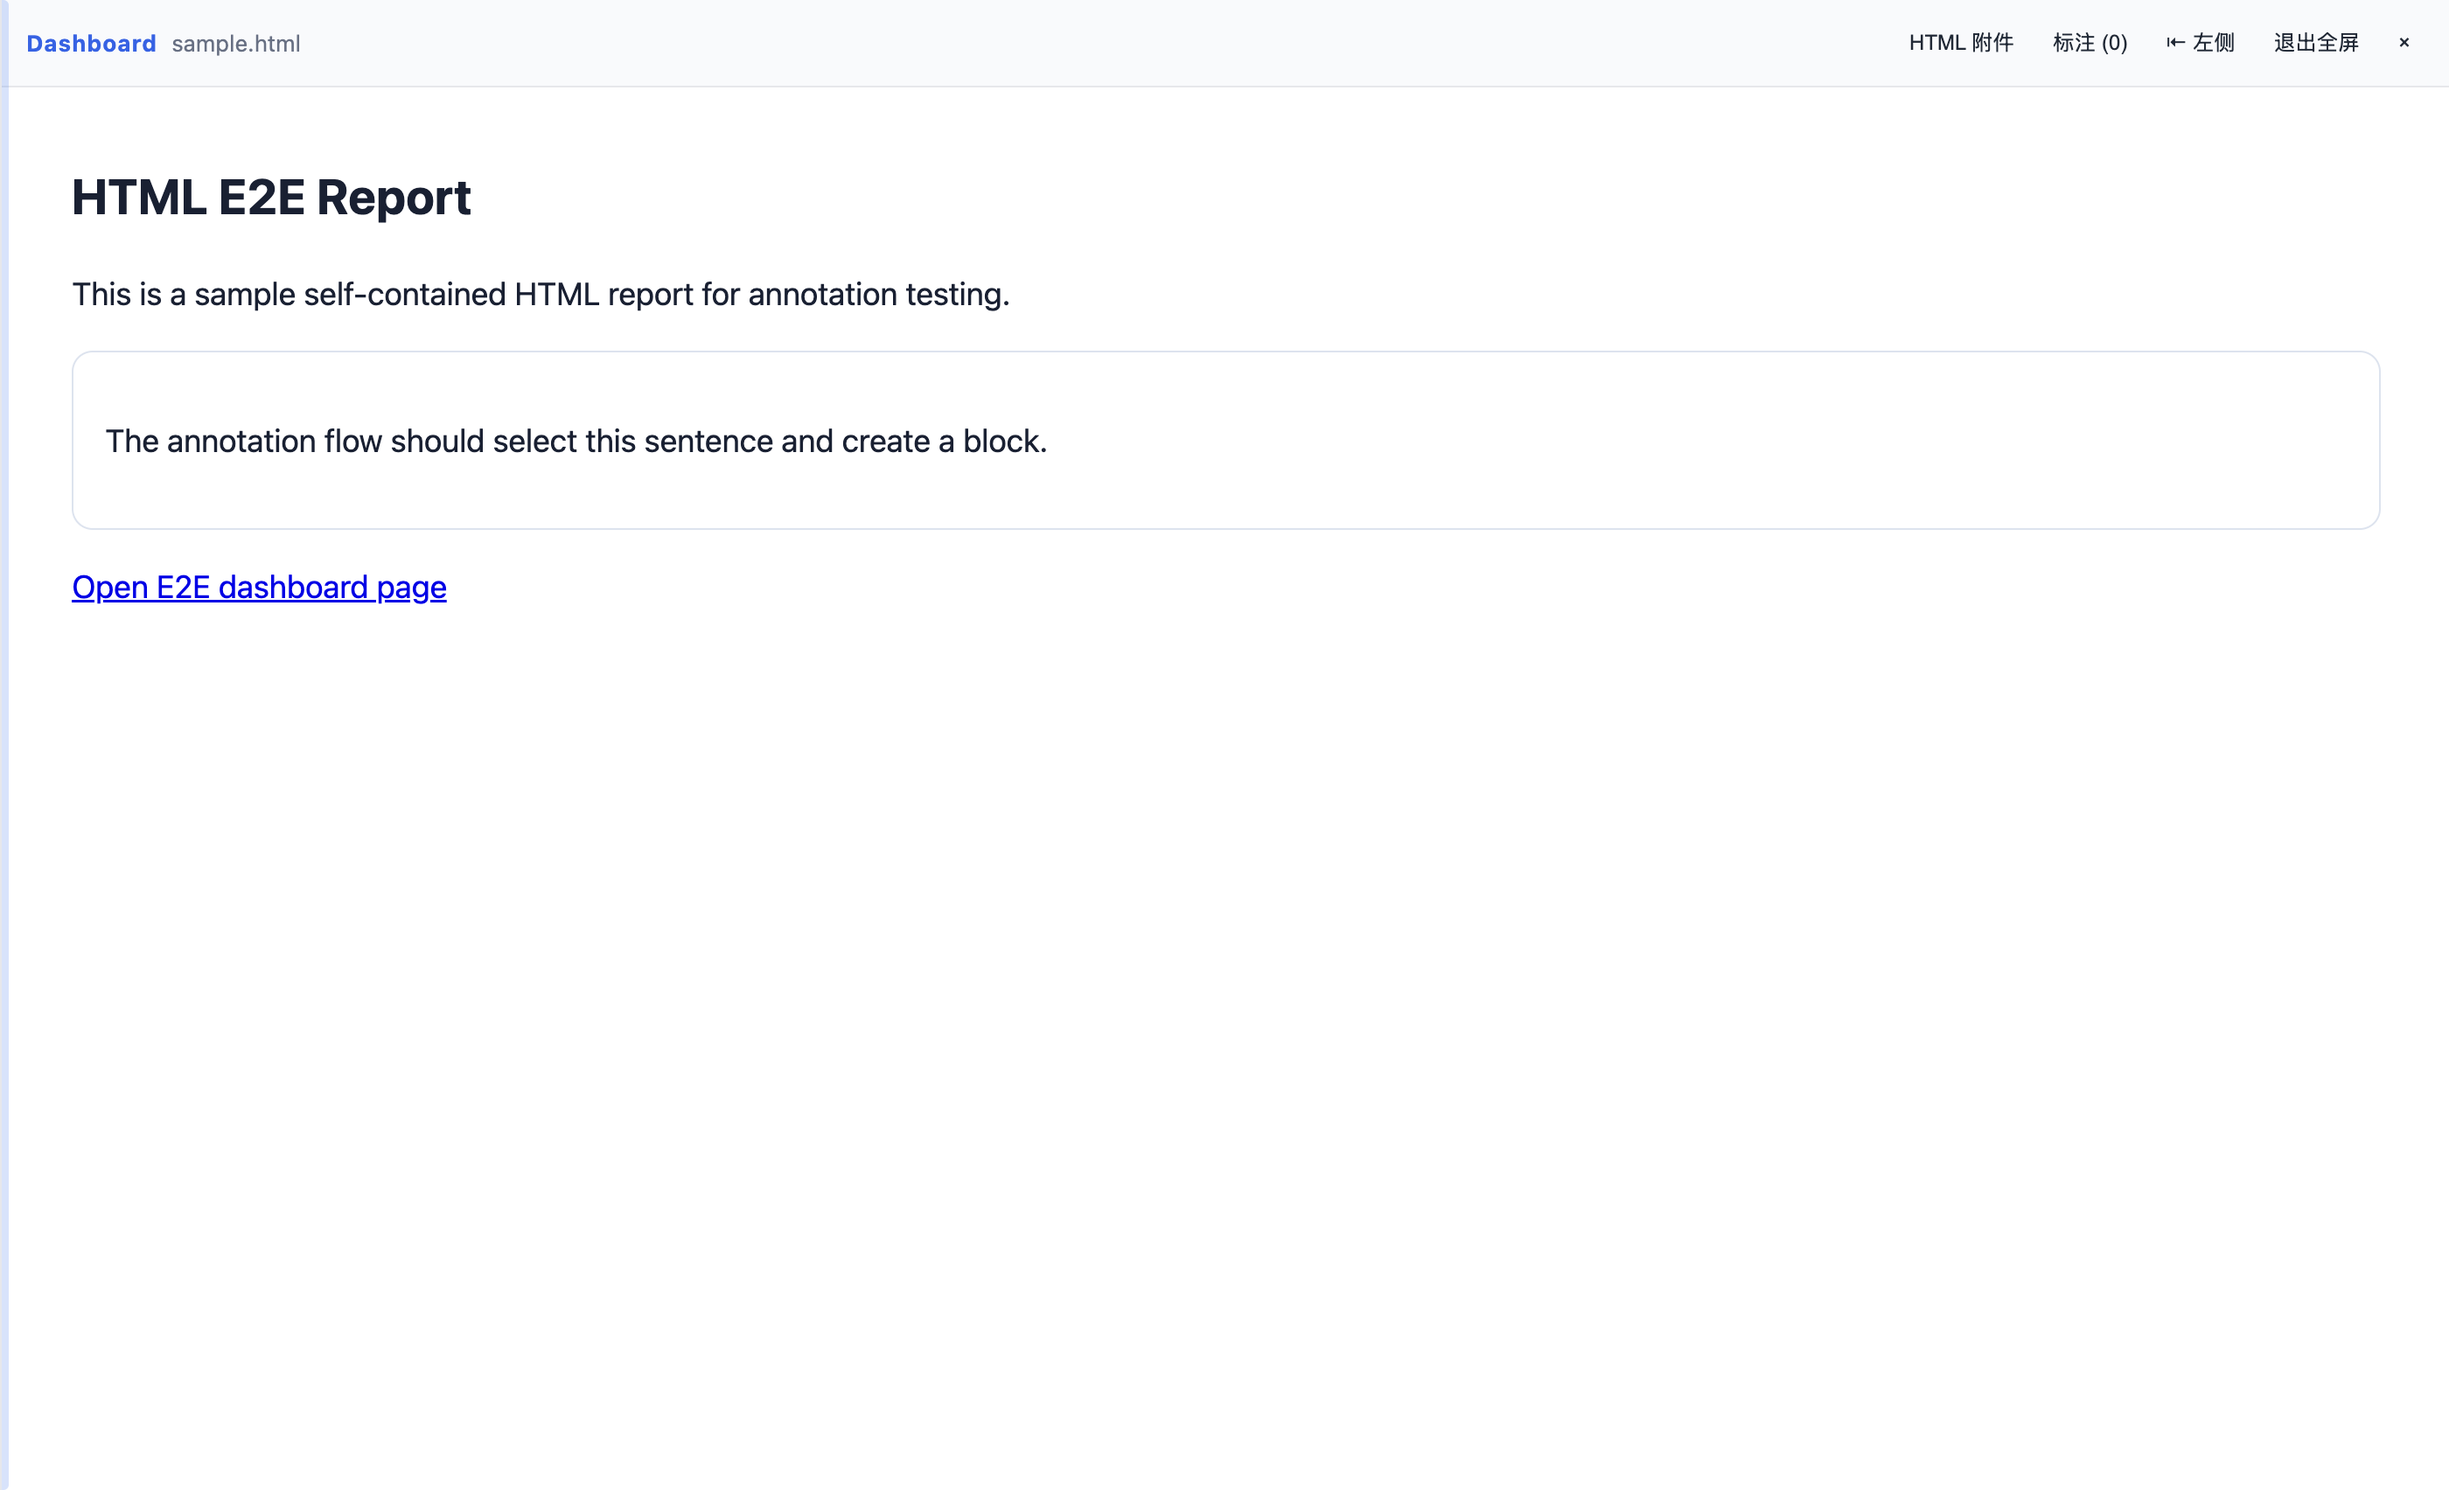
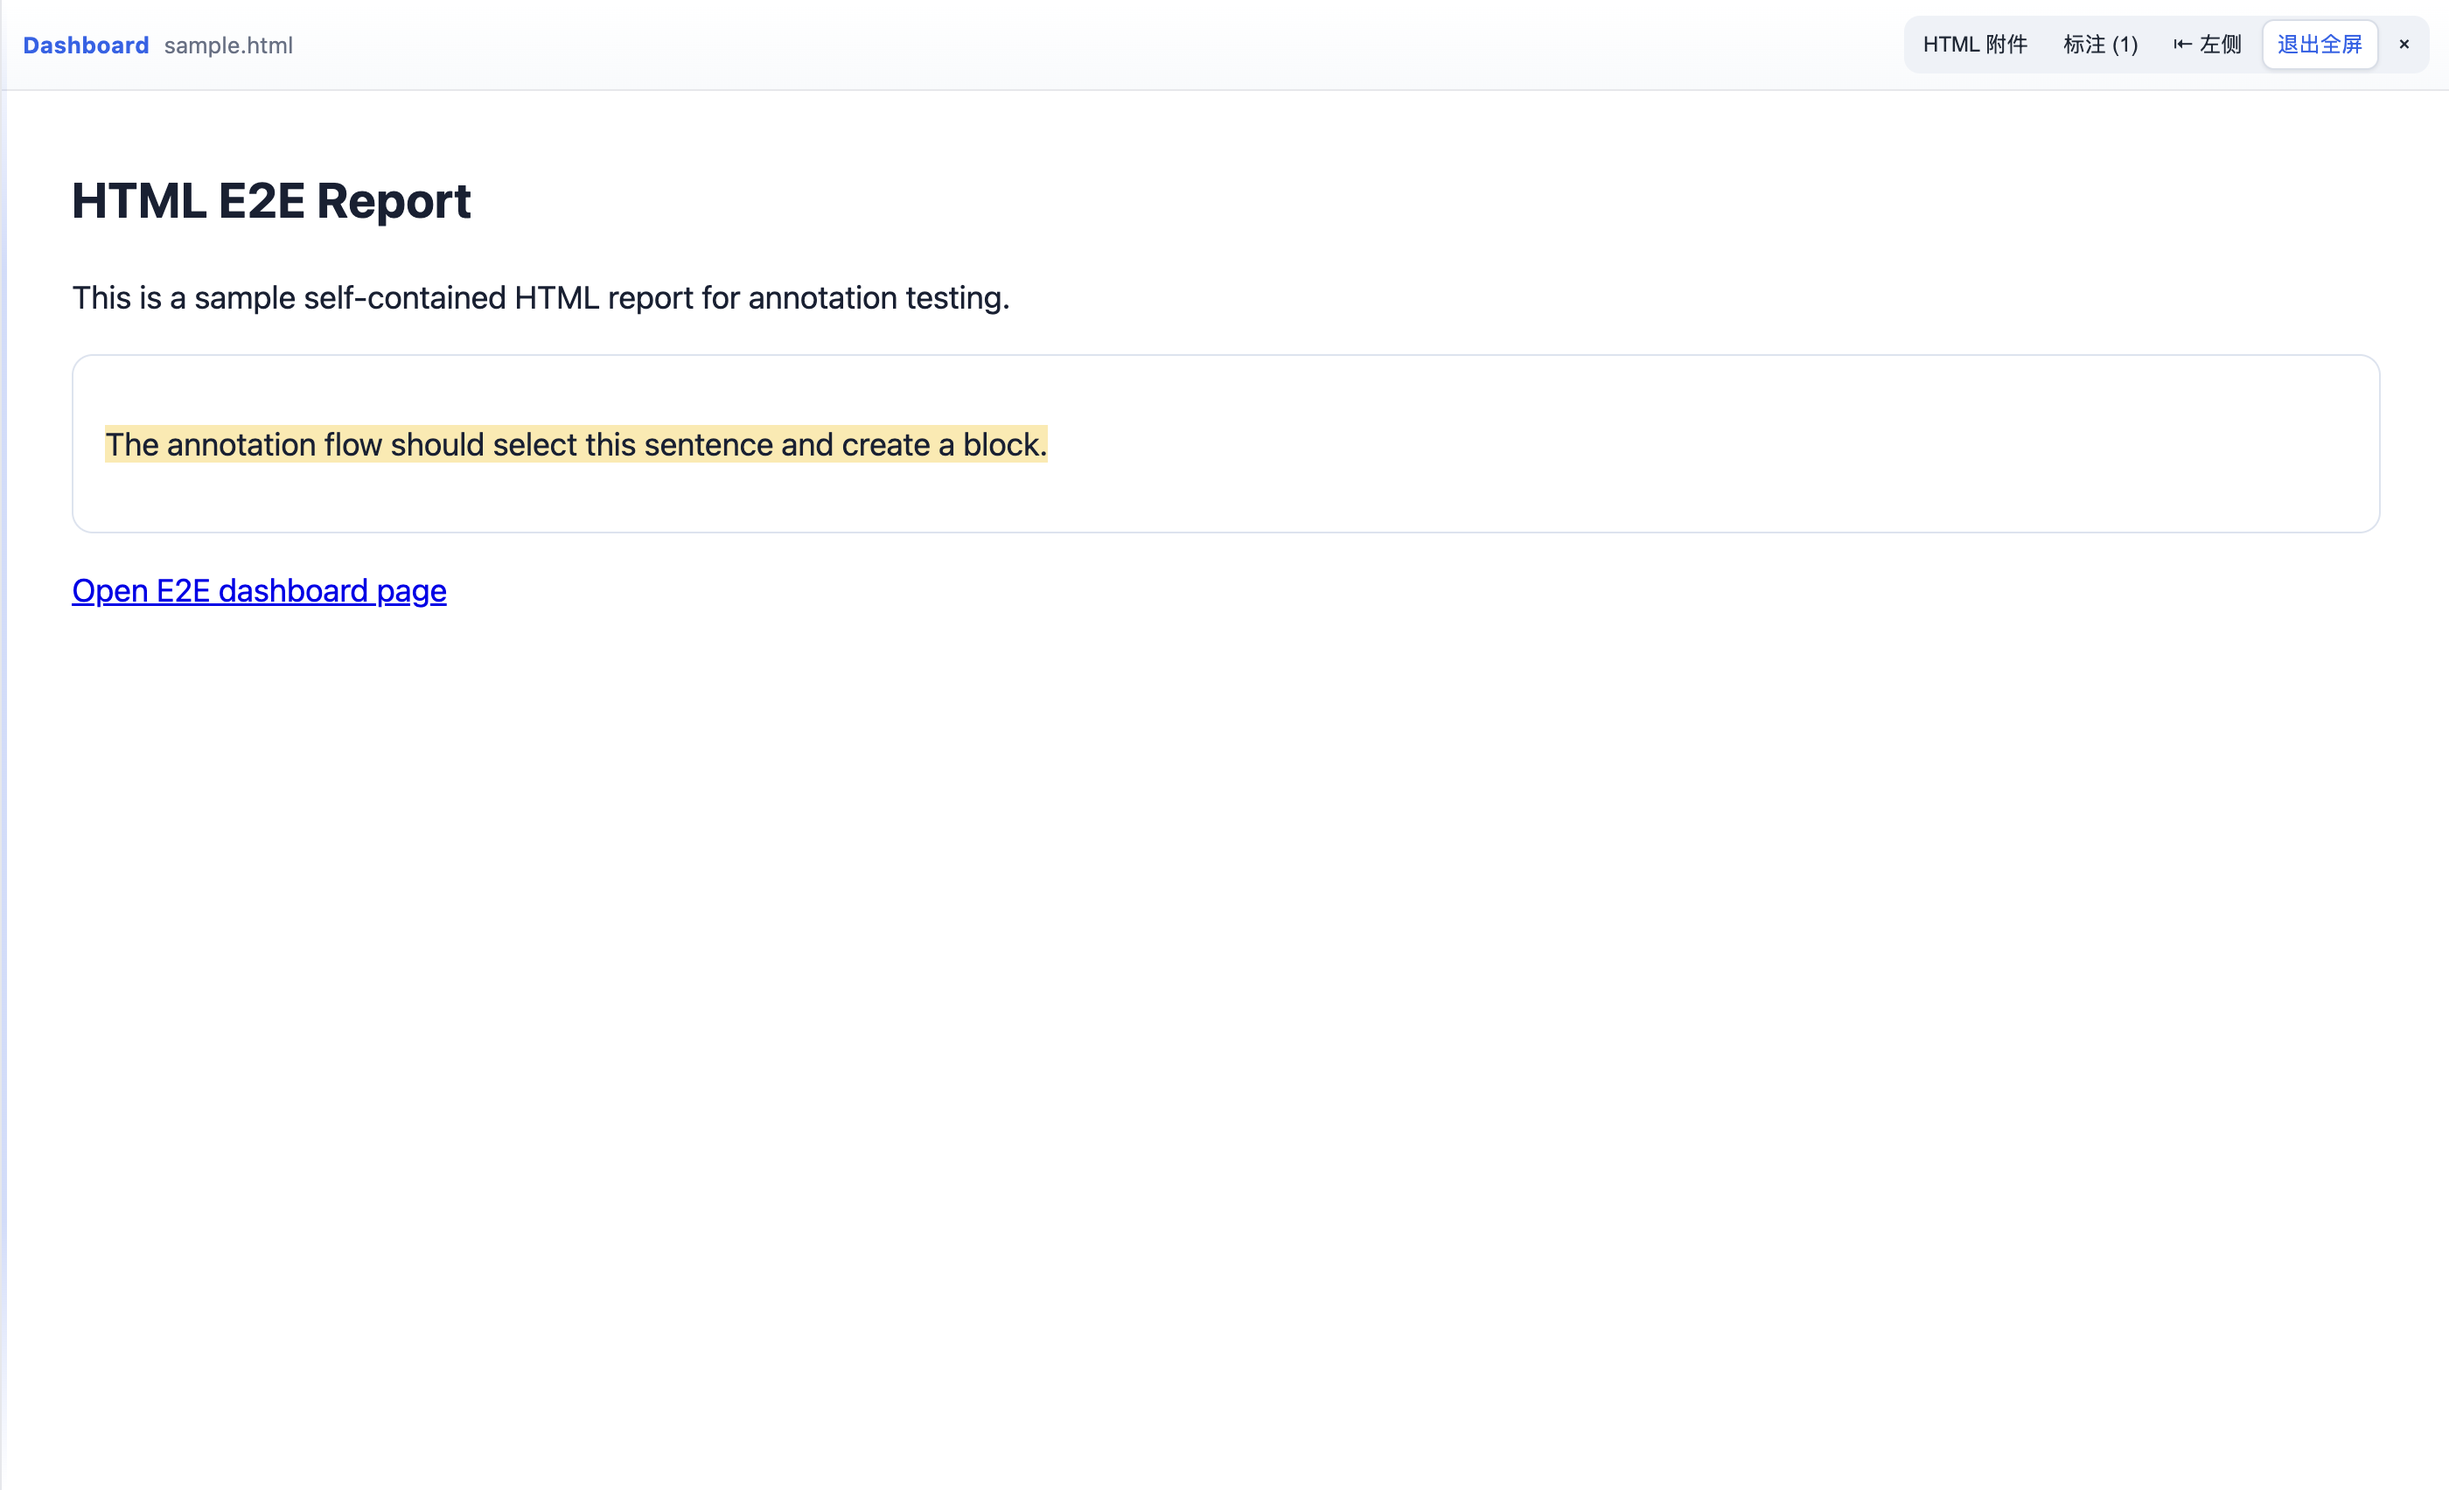
style: polish HTML viewer and settings visual language
Group viewer header actions, soften the resize affordance, refine annotation cards and composer, use a warm highlight treatment, and align settings tabs/section headings with the plugin's accent language. Refresh report screenshots; no behavior changes.

diff --git a/src/components/HtmlViewer/htmlViewer.css b/src/components/HtmlViewer/htmlViewer.css
@@ -31,24 +31,26 @@
   position: absolute;
   top: 0;
   bottom: 0;
-  width: 8px;
+  width: 6px;
   cursor: col-resize;
   z-index: 2;
-  background: rgba(59, 130, 246, 0.22);
-  border-radius: 3px;
+  background: linear-gradient(180deg, transparent, rgba(37, 99, 235, 0.28) 18%, rgba(37, 99, 235, 0.28) 82%, transparent);
+  border-radius: 999px;
+  opacity: .8;
+  transition: background-color .15s ease, opacity .15s ease;
 }
-.ltt-html-viewer-panel.is-right .ltt-html-viewer-resizer { left: -4px; }
-.ltt-html-viewer-panel.is-left .ltt-html-viewer-resizer { right: -4px; }
-.ltt-html-viewer-resizer:hover { background: rgba(59, 130, 246, 0.55); }
+.ltt-html-viewer-panel.is-right .ltt-html-viewer-resizer { left: -3px; }
+.ltt-html-viewer-panel.is-left .ltt-html-viewer-resizer { right: -3px; }
+.ltt-html-viewer-resizer:hover { background: rgba(37, 99, 235, 0.55); opacity: 1; }
 
 .ltt-html-viewer-header {
   display: flex;
   align-items: center;
   justify-content: space-between;
   gap: 12px;
-  padding: 10px 14px;
+  padding: 9px 12px;
   border-bottom: 1px solid var(--ls-border-color, #e5e7eb);
-  background: var(--ls-secondary-background-color, #f8fafc);
+  background: linear-gradient(180deg, var(--ls-primary-background-color, #fff), var(--ls-secondary-background-color, #f8fafc));
   flex: 0 0 auto;
   flex-wrap: wrap;
 }
@@ -59,7 +61,7 @@
   gap: 8px;
   min-width: 0;
 }
-.ltt-html-viewer-heading strong { font-size: 13px; letter-spacing: .04em; color: #2563eb; }
+.ltt-html-viewer-heading strong { font-size: 13px; font-weight: 700; letter-spacing: .02em; color: var(--ls-link-text-color, #2563eb); }
 .ltt-html-viewer-file {
   overflow: hidden;
   text-overflow: ellipsis;
@@ -68,21 +70,29 @@
   color: var(--ls-secondary-text-color, #667085);
 }
 
-.ltt-html-viewer-actions { display: flex; gap: 4px; flex: 0 0 auto; }
+.ltt-html-viewer-actions { display: flex; align-items: center; gap: 2px; flex: 0 0 auto; padding: 2px; border-radius: 9px; background: var(--ls-tertiary-background-color, #eef2f7); }
 .ltt-html-viewer-actions button {
   border: 1px solid transparent;
   background: transparent;
   color: inherit;
-  border-radius: 6px;
+  border-radius: 7px;
   cursor: pointer;
   font-size: 12px;
   line-height: 1.25;
   padding: 6px 8px;
   white-space: nowrap;
+  transition: background-color .15s ease, color .15s ease, box-shadow .15s ease;
 }
 .ltt-html-viewer-actions button:hover {
-  background: var(--ls-tertiary-background-color, #eef2f7);
+  background: var(--ls-primary-background-color, #fff);
   border-color: var(--ls-border-color, #d8dee8);
+  box-shadow: 0 1px 2px rgba(15, 23, 42, .06);
+}
+.ltt-html-viewer-actions button[aria-pressed="true"] {
+  background: var(--ls-primary-background-color, #fff);
+  color: var(--ls-link-text-color, #2563eb);
+  border-color: var(--ls-border-color, #d8dee8);
+  box-shadow: 0 1px 2px rgba(15, 23, 42, .08);
 }
 
 .ltt-html-viewer-picker { padding: 14px; overflow: auto; flex: 1; }
@@ -130,7 +140,7 @@
   flex-direction: column;
   gap: 3px;
 }
-.ltt-html-viewer-assets button:hover { border-color: #93c5fd; background: #eff6ff; }
+.ltt-html-viewer-assets button:hover { border-color: var(--ls-link-text-color, #93c5fd); background: var(--ls-tertiary-background-color, #eff6ff); }
 .ltt-html-viewer-assets span { font-size: 13px; font-weight: 600; overflow-wrap: anywhere; }
 .ltt-html-viewer-assets small { font-size: 11px; opacity: .62; overflow-wrap: anywhere; }
 
@@ -152,11 +162,12 @@
   overflow: auto;
   padding: 12px;
 }
-.ltt-html-viewer-sidebar-title { display: flex; justify-content: space-between; align-items: center; gap: 8px; margin-bottom: 10px; font-size: 13px; }
+.ltt-html-viewer-sidebar-title { display: flex; justify-content: space-between; align-items: center; gap: 8px; margin-bottom: 12px; font-size: 13px; font-weight: 600; letter-spacing: .01em; }
 .ltt-html-viewer-sidebar-title button { border: 0; background: transparent; cursor: pointer; font-size: 16px; }
 .ltt-html-viewer-sidebar ul { list-style: none; margin: 0; padding: 0; display: flex; flex-direction: column; gap: 8px; }
-.ltt-html-viewer-sidebar li { border: 1px solid var(--ls-border-color, #e5e7eb); background: var(--ls-primary-background-color, #fff); border-radius: 9px; padding: 9px; }
-.ltt-html-viewer-sidebar li.active { border-color: #60a5fa; box-shadow: 0 0 0 1px #bfdbfe inset; }
+.ltt-html-viewer-sidebar li { border: 1px solid var(--ls-border-color, #e5e7eb); background: var(--ls-primary-background-color, #fff); border-radius: 10px; padding: 10px; transition: border-color .15s ease, box-shadow .15s ease, transform .15s ease; }
+.ltt-html-viewer-sidebar li:hover { border-color: #bfdbfe; box-shadow: 0 3px 12px rgba(15, 23, 42, .06); }
+.ltt-html-viewer-sidebar li.active { border-color: var(--ls-link-text-color, #60a5fa); box-shadow: 0 0 0 1px rgba(96, 165, 250, .28) inset, 0 4px 14px rgba(37, 99, 235, .08); }
 .ltt-html-viewer-annotation-jump { display: flex; flex-direction: column; gap: 5px; text-align: left; width: 100%; border: 0; background: transparent; color: inherit; cursor: pointer; padding: 0; }
 .ltt-html-viewer-annotation-jump span { font-size: 12px; line-height: 1.45; }
 .ltt-html-viewer-annotation-jump small { font-size: 12px; color: var(--ls-secondary-text-color, #667085); line-height: 1.4; }
@@ -185,17 +196,17 @@
   bottom: 16px;
   z-index: 4;
   border: 1px solid var(--ls-border-color, #d0d5dd);
-  border-radius: 11px;
+  border-radius: 12px;
   background: var(--ls-primary-background-color, #fff);
-  box-shadow: 0 16px 40px rgba(15, 23, 42, .22);
+  box-shadow: 0 18px 48px rgba(15, 23, 42, .24);
   padding: 12px;
 }
 .ltt-html-viewer-composer blockquote {
   margin: 0 0 8px;
   padding: 7px 9px;
   border-left: 3px solid #93c5fd;
-  background: #eff6ff;
-  border-radius: 4px;
+  background: var(--ls-tertiary-background-color, #eff6ff);
+  border-radius: 6px;
   font-size: 12px;
   max-height: 90px;
   overflow: auto;
@@ -260,7 +271,7 @@
   cursor: pointer;
   text-align: left;
 }
-.ltt-html-asset-launcher:hover { border-color: #93c5fd; background: #eff6ff; }
+.ltt-html-asset-launcher:hover { border-color: var(--ls-link-text-color, #93c5fd); background: var(--ls-tertiary-background-color, #eff6ff); }
 .ltt-html-asset-launcher-icon {
   flex: 0 0 auto;
   border-radius: 5px;

diff --git a/src/components/SettingsModal/settingsModal.css b/src/components/SettingsModal/settingsModal.css
@@ -566,11 +566,11 @@
 .ltt-settings-tab {
   padding: 8px 16px;
   border: 1px solid var(--ltt-border, #e0e0e0);
-  border-radius: 6px 6px 0 0;
+  border-radius: 8px 8px 0 0;
   background-color: var(--ltt-bg-secondary, #f5f5f5);
   color: var(--ltt-text-secondary, #666);
   cursor: pointer;
-  transition: all 0.2s ease;
+  transition: background-color .15s ease, color .15s ease, box-shadow .15s ease;
   font-size: 14px;
   border-bottom: none;
   white-space: nowrap;
@@ -587,6 +587,8 @@
   border-color: var(--ltt-border, #e0e0e0);
   border-bottom: 1px solid var(--ltt-bg-primary, #fff);
   margin-bottom: -1px;
+  color: var(--ltt-accent, #2563eb);
+  box-shadow: inset 0 -2px 0 var(--ltt-accent, #2563eb);
 }
 
 .ltt-settings-content {
@@ -733,8 +735,8 @@ input:checked + .ltt-switch-slider:before {
   font-size: 13px;
   font-weight: 600;
   color: var(--ltt-text-primary, #333);
-  text-transform: uppercase;
-  letter-spacing: 0.5px;
+  text-transform: none;
+  letter-spacing: 0.2px;
 }
 
 .ltt-section-hint {
@@ -1556,3 +1558,5 @@ input:checked + .ltt-switch-slider:before {
     padding: 10px !important;
   }
 }
+
+.ltt-html-viewer-settings .ltt-setting-item > label { width: 220px; white-space: normal; }

diff --git a/src/lib/htmlViewer/anchors.ts b/src/lib/htmlViewer/anchors.ts
@@ -129,12 +129,23 @@ export function applyHighlights(
     if (String(key).startsWith(keyPrefix)) win.CSS.highlights.delete(key);
   }
 
+  if (!doc.getElementById('ltt-html-highlight-style')) {
+    const style = doc.createElement('style');
+    style.id = 'ltt-html-highlight-style';
+    style.textContent = '::highlight(ltt-html-highlight) { background-color: rgba(250, 204, 21, .42); color: inherit; }';
+    (doc.head || doc.documentElement).appendChild(style);
+  }
+
+  const ranges: Range[] = [];
   for (const annotation of annotations) {
     const range = anchorToRange(doc, annotation.anchor);
     if (!range) continue;
+    ranges.push(range);
+    result.set(annotation.id, range);
+  }
+  if (ranges.length) {
     try {
-      win.CSS.highlights.set(`${keyPrefix}${annotation.id}`, new win.Highlight(range));
-      result.set(annotation.id, range);
+      win.CSS.highlights.set(`${keyPrefix}highlight`, new win.Highlight(...ranges));
     } catch {
       // Ignore ranges that the browser cannot represent.
     }

diff --git a/src/components/SettingsModal/tabs/HtmlViewerSettings.tsx b/src/components/SettingsModal/tabs/HtmlViewerSettings.tsx
@@ -69,7 +69,7 @@ function HtmlViewerSettings({ settings, setSettings, onSave, isSaving, language 
   ]
 
   return (
-    <div className="ltt-settings-tab-content">
+    <div className="ltt-settings-tab-content ltt-html-viewer-settings">
       <p className="ltt-tab-section-description-small">
         {t('settings.htmlViewer.description' as any, language)}
       </p>
